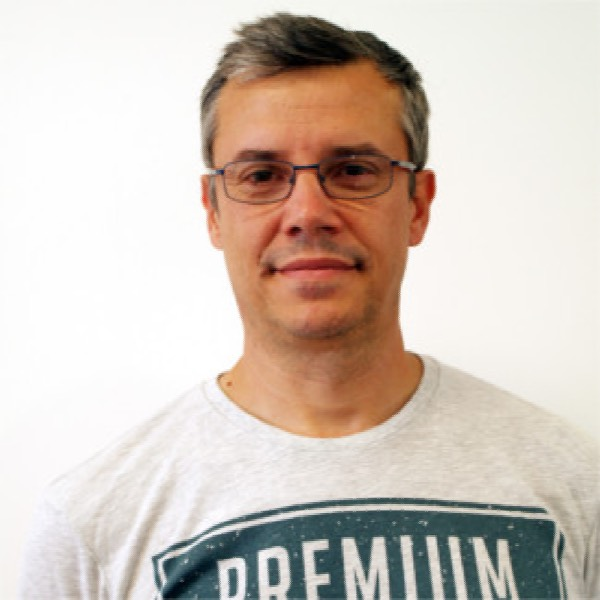
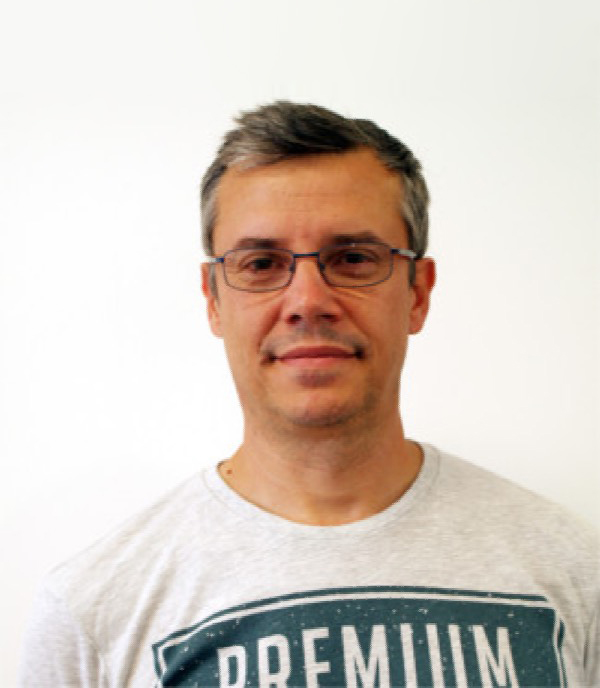
Night Work

diff --git a/css/style.css b/css/style.css
@@ -35,6 +35,11 @@ h2 {
     Font-Weight: Bold;
     font-family: 'Josefin Sans', sans-serif;
 }
+h3{
+    font-size: 2em;
+    Font-Weight: Bold;
+
+}
 
 form {
     font-family: 'Josefin Sans', sans-serif;
@@ -103,6 +108,10 @@ i, span {
     border-radius: 10px;
 
 }
+.center {
+
+    text-align: center;
+}
 
 .contenue {
     padding-top: 0px;
@@ -118,7 +127,7 @@ footer {
     -moz-border-radius: 10px;
     border-radius: 10px;
     margin: 10px 0 10px 0;
-    padding: 10px 100px 10px 100px;
+    padding: 20px 100px 10px 100px;
 
 
     opacity: 0.2;
@@ -134,9 +143,9 @@ footer:hover {
     -moz-border-radius: 10px;
     border-radius: 10px;
     margin: 10px 0 10px 0;
+    padding: 20px 100px 10px 100px;
 
-
-    opacity: 1;
+    opacity: 0.95;
     transition: opacity .5s ease-in-out;
     -moz-transition: opacity .5s ease-in-out;
     -webkit-transition: opacity .5s ease-in-out;
@@ -158,10 +167,19 @@ footer:hover {
 .text {
     text-align: justify;
 }
+/*.damien {
 
-img {
-    background:#000000;
-    opacity:1;
+    width:300px;
+    height:344px;
+    background-size: cover;
+    background: url("../img/damien.jpg") no-repeat ;
+}*/
+.troll_damien {
+    width:300px;
+    height:344px;
+    background-size: cover;
+    background: url("../img/damien.png");
+
 }
 
 /* --------------------------------------------------------------------------

diff --git a/resto.php b/resto.php
@@ -1,103 +1,114 @@
 <h1>Nos restaurants</h1>
-
-<hr>
-
+<hr/>
 <div class="row">
-
-    <div class="col-md-12">
+    <div class="col-md-12 col-xs-12">
         <iframe src="https://www.google.com/maps/d/embed?mid=1Gf_NNWZCIkMtUQYRDBuZB31jyU4" width="100%"
-                height="480" class="animated fadeIn"></iframe>
+                height="480px" class="animated fadeIn"></iframe>
     </div>
-
 </div>
-<hr>
+<hr/>
 <div class="row">
-    <div class="col-md-3">
+    <div class="col-md-3 col-xs-3">
         <img class="media-object img-thumbnail" src="http://via.placeholder.com/250x250" alt="...">
-
     </div>
-    <div class="col-md-9">
+    <div class="col-md-9 col-xs-9">
         <h2>Lyon</h2>
         <p>Lorem ipsum dolor sit amet, consectetur adipiscing elit. Sed non risus. Suspendisse lectus tortor, dignissim
             sit amet, adipiscing nec, ultricies sed, dolor. Cras elementum ultrices diam. Maecenas ligula massa, varius
             a, semper congue, euismod non, mi. Proin porttitor, orci nec nonummy molestie, enim est eleifend mi, non
             fermentum diam nisl sit amet erat.</p>
     </div>
-
 </div>
-<hr>
+<hr/>
 <div class="row">
-
-    <div class="col-md-9"><h2>La Loupe</h2>
+    <div class="col-md-9 col-xs-9">
+        <h2>La Loupe</h2>
         <p>Lorem ipsum dolor sit amet, consectetur adipiscing elit. Sed non risus. Suspendisse lectus tortor, dignissim
             sit amet, adipiscing nec, ultricies sed, dolor. Cras elementum ultrices diam. Maecenas ligula massa, varius
             a, semper congue, euismod non, mi. Proin porttitor, orci nec nonummy molestie, enim est eleifend mi, non
-            fermentum diam nisl sit amet erat.</p></div>
-    <div class="col-md-3"><img class="media-object img-thumbnail" src="http://via.placeholder.com/250x250" alt="...">
+            fermentum diam nisl sit amet erat.</p>
+    </div>
+    <div class="col-md-3 col-xs-3">
+        <img class="media-object img-thumbnail" src="http://via.placeholder.com/250x250" alt="...">
     </div>
 </div>
-<hr>
+<hr/>
 <div class="row">
-    <div class="col-md-3"><img class="media-object img-thumbnail" src="http://via.placeholder.com/250x250" alt="...">
+    <div class="col-md-3 col-xs-3"><img class="media-object img-thumbnail" src="http://via.placeholder.com/250x250" alt="...">
     </div>
-    <div class="col-md-9"><h2>Orléans</h2>
+    <div class="col-md-9 col-xs-9">
+        <h2>Orléans</h2>
         <p>Lorem ipsum dolor sit amet, consectetur adipiscing elit. Sed non risus. Suspendisse lectus tortor, dignissim
             sit amet, adipiscing nec, ultricies sed, dolor. Cras elementum ultrices diam. Maecenas ligula massa, varius
             a, semper congue, euismod non, mi. Proin porttitor, orci nec nonummy molestie, enim est eleifend mi, non
-            fermentum diam nisl sit amet erat.</p></div>
+            fermentum diam nisl sit amet erat.</p>
+    </div>
 </div>
-<hr>
+<hr/>
 <div class="row">
-
-    <div class="col-md-9"><h2>Toulouse</h2>
+    <div class="col-md-9 col-xs-9">
+        <h2>Toulouse</h2>
         <p>Lorem ipsum dolor sit amet, consectetur adipiscing elit. Sed non risus. Suspendisse lectus tortor, dignissim
             sit amet, adipiscing nec, ultricies sed, dolor. Cras elementum ultrices diam. Maecenas ligula massa, varius
             a, semper congue, euismod non, mi. Proin porttitor, orci nec nonummy molestie, enim est eleifend mi, non
-            fermentum diam nisl sit amet erat.</p></div>
-    <div class="col-md-3"><img class="media-object img-thumbnail" src="http://via.placeholder.com/250x250" alt="...">
+            fermentum diam nisl sit amet erat.</p>
+    </div>
+    <div class="col-md-3 col-xs-3">
+        <img class="media-object img-thumbnail" src="http://via.placeholder.com/250x250" alt="...">
     </div>
 </div>
-<hr>
+<hr/>
 <div class="row">
-    <div class="col-md-3"><img class="media-object img-thumbnail" src="http://via.placeholder.com/250x250" alt="...">
+    <div class="col-md-3 col-xs-3">
+        <img class="media-object img-thumbnail" src="http://via.placeholder.com/250x250" alt="...">
     </div>
-    <div class="col-md-9"><h2>Strasbourg</h2>
+    <div class="col-md-9 col-xs-9">
+        <h2>Strasbourg</h2>
         <p>Lorem ipsum dolor sit amet, consectetur adipiscing elit. Sed non risus. Suspendisse lectus tortor, dignissim
             sit amet, adipiscing nec, ultricies sed, dolor. Cras elementum ultrices diam. Maecenas ligula massa, varius
             a, semper congue, euismod non, mi. Proin porttitor, orci nec nonummy molestie, enim est eleifend mi, non
-            fermentum diam nisl sit amet erat.</p></div>
+            fermentum diam nisl sit amet erat.</p>
+    </div>
 </div>
-<hr>
+<hr/>
 <div class="row">
-    <div class="col-md-9"><h2>Bordeaux</h2>
+    <div class="col-md-9 col-xs-9">
+        <h2>Bordeaux</h2>
         <p>Lorem ipsum dolor sit amet, consectetur adipiscing elit. Sed non risus. Suspendisse lectus tortor, dignissim
             sit amet, adipiscing nec, ultricies sed, dolor. Cras elementum ultrices diam. Maecenas ligula massa, varius
             a, semper congue, euismod non, mi. Proin porttitor, orci nec nonummy molestie, enim est eleifend mi, non
-            fermentum diam nisl sit amet erat.</p></div>
-    <div class="col-md-3"><img class="media-object img-thumbnail" src="http://via.placeholder.com/250x250" alt="...">
+            fermentum diam nisl sit amet erat.</p>
+    </div>
+    <div class="col-md-3 col-xs-3">
+        <img class="media-object img-thumbnail" src="http://via.placeholder.com/250x250" alt="...">
     </div>
 </div>
-<hr>
+<hr/>
 <div class="row">
-    <div class="col-md-3"><img class="media-object img-thumbnail" src="http://via.placeholder.com/250x250" alt="...">
+    <div class="col-md-3 col-xs-3">
+        <img class="media-object img-thumbnail" src="http://via.placeholder.com/250x250" alt="...">
     </div>
-    <div class="col-md-9"><h2>Lille</h2>
+    <div class="col-md-9 col-xs-9">
+        <h2>Lille</h2>
         <p>Lorem ipsum dolor sit amet, consectetur adipiscing elit. Sed non risus. Suspendisse lectus tortor, dignissim
             sit amet, adipiscing nec, ultricies sed, dolor. Cras elementum ultrices diam. Maecenas ligula massa, varius
             a, semper congue, euismod non, mi. Proin porttitor, orci nec nonummy molestie, enim est eleifend mi, non
-            fermentum diam nisl sit amet erat.</p></div>
+            fermentum diam nisl sit amet erat.</p>
+    </div>
 </div>
-<hr>
+<hr/>
 <div class="row">
-    <div class="col-md-9"><h2>Paris</h2>
+    <div class="col-md-9 col-xs-9">
+        <h2>Paris</h2>
         <p>Lorem ipsum dolor sit amet, consectetur adipiscing elit. Sed non risus. Suspendisse lectus tortor, dignissim
             sit amet, adipiscing nec, ultricies sed, dolor. Cras elementum ultrices diam. Maecenas ligula massa, varius
             a, semper congue, euismod non, mi. Proin porttitor, orci nec nonummy molestie, enim est eleifend mi, non
-            fermentum diam nisl sit amet erat.</p></div>
-    <div class="col-md-3"><img class="media-object img-thumbnail" src="http://via.placeholder.com/250x250" alt="...">
+            fermentum diam nisl sit amet erat.</p>
+    </div>
+    <div class="col-md-3 col-xs-3">
+        <img class="media-object img-thumbnail" src="http://via.placeholder.com/250x250" alt="...">
     </div>
 </div>
-<hr>
 
 
 

diff --git a/team.php b/team.php
@@ -1,45 +1,47 @@
 <h1>Notre team</h1>
-
 <hr>
 <div class="row">
 
     <div class="col-md-8">
         <h1>CEO</h1>
-
         <h2>Un concept, une passion</h2>
-
         <p class="text">
             Suite à ces années passées dans de multiples pays d'Asie, Damien revient en France avec la
             ferme intention de faire manger des insectes aux Francais. Après avoir écumé de
-            nombreuses societés de Fast Food bien connu (Le grand M et le petit Q) pendant de long mois, et avoir essuyé de multiples
-            refus, il décida de créer sa propre chaîne de restaurants pour développer cette idée. C'est alors qu'il a ouvert le premier Bug
+            nombreuses societés de Fast Food bien connu (Le grand M et le petit Q) pendant de long mois, et avoir essuyé
+            de multiples
+            refus, il décida de créer sa propre chaîne de restaurants pour développer cette idée. C'est alors qu'il a
+            ouvert le premier Bug
             Burger à Lyon après 2 ans d'efforts acharnés.
-
         </p>
     </div>
-    <div class="col-md-4"><img class="media-object img-thumbnail" src="img/damien.jpg" alt="CEO">
+    <div class="col-md-4">
+        <div class="troll_damien">
+            <img class="media-object img-thumbnail" src="img/damien.jpg" alt="Le grand Manitou">
+        </div>
 
     </div>
+
+
 </div>
+
 <hr>
 <div class="row">
     <div class="col-md-4">
         <img class="media-object img-thumbnail" src="img/laurent.jpg" alt="Cuisinier">
-
     </div>
     <div class="col-md-8">
         <h1>Cuisinier en Chef</h1>
-
         <h2>De la créativité a l'état brut !</h2>
-
         <p class="text">
             "Les insectes, je les évitais, mais depuis que j'ai rencontré Damien, je me suis trouvé une passion pour
-            ces petites bêtes", tels sont les mots prononcés par Laurent, notre chef cuisinier qui depuis le tout premier restaurant
-            imagine, conçoit et critique les futurs plats de notre chaîne. Si nos produit ont un goût si particulier, c'est
+            ces petites bêtes", tels sont les mots prononcés par Laurent, notre chef cuisinier qui depuis le tout
+            premier restaurant
+            imagine, conçoit et critique les futurs plats de notre chaîne. Si nos produit ont un goût si particulier,
+            c'est
             grâce à l'experience qu'il a accumulé durant toutes ces années dans les plus grands palaces
             français.</p>
     </div>
-
 </div>
 <hr>
 <div class="row">
@@ -48,17 +50,16 @@
         <h1>Enthomocul quoi ?</h1>
 
         <h2>Les petites bêtes, c'est lui</h2>
-
         <p class="text">
             Depuis toujours, Julien affectionne les insectes, c'est donc tout naturellement qu'il c'est orienté vers
             une Licence de Biologie des Organismes, puis vers un Master 2 Populations Microscopiques et
-            Écosystèmes. Puis un jour, au détour d'un salon dédié aux insectes, il rencontre Damien et son projet fou, dès
-            lors ils ne se sont plus quittés et depuis le premier jour de Bug Burger, c'est lui qui s'occupe et prend soin
+            Écosystèmes. Puis un jour, au détour d'un salon dédié aux insectes, il rencontre Damien et son projet fou,
+            dès
+            lors ils ne se sont plus quittés et depuis le premier jour de Bug Burger, c'est lui qui s'occupe et prend
+            soin
             de toutes nos petites bêtes adorées.
         </p>
     </div>
     <div class="col-md-4"><img class="media-object img-thumbnail" src="img/julien.jpg" alt="Entomoculteur">
     </div>
 </div>
-<hr>
-   

diff --git a/footer.php b/footer.php
@@ -1,21 +1,24 @@
-    <div class="row">
-        <div class="col-md-4">
-            <p><a href="?page=home"><i class="glyphicon glyphicon-home"></i> Home</a></p>
-            <p><a href="?page=carte"><i class="glyphicon glyphicon-cutlery"></i> La Carte</a></p>
-            <p><a href="?page=resto"><i class="glyphicon glyphicon-map-marker"></i> Les Restaurants</a></p>
+<div class="row">
+    <div class="col-md-4 col-xs-4">
+        <p><a href="?page=home"><i class="glyphicon glyphicon-home"></i> Home</a></p>
+        <p><a href="?page=carte"><i class="glyphicon glyphicon-cutlery"></i> La Carte</a></p>
+        <p><a href="?page=resto"><i class="glyphicon glyphicon-map-marker"></i> Les Restaurants</a></p>
 
-
-        </div>
-        <div class="col-md-4">
-            <p><a href="?page=team"><i class="mega-octicon octicon-organization"></i> Team</a></p>
-            <p><a href="?page=contact"><i class="glyphicon glyphicon-envelope"></i> Contact</a></p>
-            <p><a href="?page=FAQ"><i class="glyphicon glyphicon-question-sign"></i> FAQ</a></p>
-        </div>
-        <div class="col-md-4">
-            <p><a href="">&nbsp;</a></p>
-            <p><a href="">&nbsp;</a></p>
-            <p><a href="?page=mentions"><i class="glyphicon glyphicon-book"></i> Mentions légales</a></p>
-
-        </div>
 
     </div>
+    <div class="col-md-4 col-xs-4">
+        <p><a href="?page=team"><i class="mega-octicon octicon-organization"></i> Team</a></p>
+        <p><a href="?page=contact"><i class="glyphicon glyphicon-envelope"></i> Contact</a></p>
+        <p><a href="?page=FAQ"><i class="glyphicon glyphicon-question-sign"></i> FAQ</a></p>
+    </div>
+    <div class="col-md-4 col-xs-4">
+        <p><a href="">&nbsp;</a></p>
+        <p><a href="">&nbsp;</a></p>
+        <p><a href="?page=mentions"><i class="glyphicon glyphicon-book"></i> Mentions légales</a></p>
+
+    </div>
+    <div class="col-md-12 center">
+        <p>© 2017 Bug Burger, Inc.</p>
+
+    </div>
+</div>

diff --git a/include/data.php b/include/data.php
@@ -1,7 +1,7 @@
 <?php
 function effectHazard()
 {
-    $effects = array("bounce", "flash", "pulse", "rubberBand", "shake", "headShake", "swing", "tada", "wobble", "jello", "bounceIn", "bounceInDown", "bounceInLeft", "bounceInRight", "fadeIn", "fadeInDown", "fadeInDownBig", "fadeInLeft", "fadeInLeftBig", "fadeInRight", "fadeInRightBig", "flipInX", "flipInY", "lightSpeedIn", "rotateIn", "rotateInDownLeft", "rotateInDownRight", "hinge", "jackInTheBox", "rollIn", "zoomIn", "zoomInDown", "zoomInLeft", "zoomInRight", "slideInDown", "slideInLeft", "slideInRight",);
+    $effects = array("bounce", "flash", "pulse", "rubberBand", "shake", "headShake", "swing", "tada", "wobble", "jello", "bounceIn", "bounceInDown", "bounceInLeft", "bounceInRight", "fadeIn", "fadeInDown", "fadeInDownBig", "fadeInLeft", "fadeInLeftBig", "fadeInRight", "fadeInRightBig", "flipInX", "flipInY", "lightSpeedIn", "rotateIn", "rotateInDownLeft", "rotateInDownRight",  "jackInTheBox", "rollIn", "zoomIn", "zoomInDown", "zoomInLeft", "zoomInRight", "slideInDown", "slideInLeft", "slideInRight",);
     $compteur = count($effects)-1;
 
     echo "animated " . $effects[rand(0, $compteur)];

diff --git a/FAQ.php b/FAQ.php
@@ -1,6 +1,6 @@
 
 <h1>QUESTIONS FRÉQUENTES</h1>
-<h3>Nous répondons ici aux questions les plus fréquemment posées sur nos produits et tout autour de notre site web. Peut-être que vous trouverez déjà une réponse à vos questions.</h3><br />
+<h3 class="faqtitre">Nous répondons ici aux questions les plus fréquemment posées sur nos produits et tout autour de notre site web. Peut-être que vous trouverez déjà une réponse à vos questions.</h3><br />
 
 
 <h2>Quelles sont les nouveautés sur notre nouveau site web BUG BURGER® ?</h2>

diff --git a/index.php b/index.php
@@ -1,5 +1,5 @@
 <!DOCTYPE html>
-<html>
+<html lang="fr">
 <head>
     <meta charset="UTF-8">
     <title>BugBurger</title>
